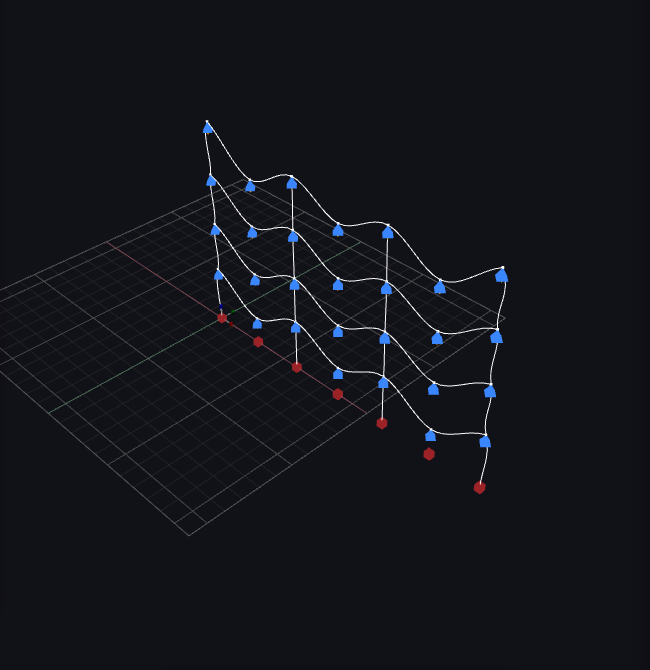
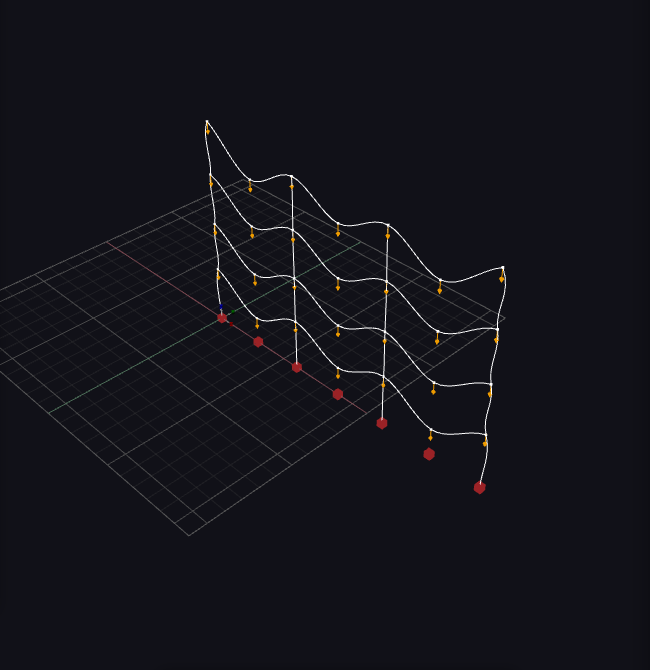
Plantillas: el menu lista las 8 (se derivan, no se escriben) y fuera las ataduras de mas
Dos cosas que caz'o Jorge MIRANDO la pantalla, no el compilador.

## 1 · Faltaban dos plantillas en el menu

El menu de "Nuevo modelo" listaba SEIS y el desplegable del ejemplo OCHO: se
anadieron «dual» y «arriostrado» a `params.tipo.options` y la lista del menu se
quedo atras. Dos listas paralelas no dan error, solo dejan de coincidir.

Arreglado de raiz: el menu ya NO escribe la lista, la **deriva** de
`params.tipo.options` de la propia plantilla. Ahora no pueden separarse.

## 2 · El bosque de triangulos azules

Jorge: *"que es ese triangulo morado no entiendo? ya hay nodos blancos que es
eso?"*.

Eran APOYOS. El portico plano llevaba una atadura fuera-de-plano en TODOS los
nudos, puesta «por si acaso» contra una singularidad, y el visor dibuja un
marcador por cada nudo restringido: salia un triangulo en cada junta y el
portico parecia apoyado entero cuando solo lo esta en la base.

Y sobraban. Medido antes de tocar nada:

    CON ataduras:  35/35 nudos con apoyo · flecha 3.2266 mm
    SIN ataduras:   7/35 nudos con apoyo · flecha 3.2266 mm · NaN 0

Flecha IDENTICA y cero NaN: las barras son vigas 3D con rigidez en los seis GDL
y las bases estan empotradas, asi que el portico no se cae fuera de su plano.

La regla, escrita en el codigo: una atadura «por si acaso» no es gratis. Cambia
lo que el usuario ve y, si de verdad hiciera falta, taparia el fallo en vez de
ensenarlo.

Las 8 miniaturas rehechas y MIRADAS. Suite: 223/223.

diff --git a/examples/src/workspace/main.ts b/examples/src/workspace/main.ts
@@ -2477,31 +2477,28 @@ function showMenu() {
   //
   // Asi que aqui igual: las plantillas primero, como SUB-CATEGORIAS, y el
   // lienzo en blanco como una mas de ellas para quien de verdad quiera dibujar.
-  const PLANTILLAS: Array<[string, number | null]> = [
-    ["▦ Portico plano (2D)", 0],
-    ["🏗 Portico 3D", 1],
-    ["🧱 Portico + losa (aporte de losa)", 2],
-    ["⬚ Solo rejilla (nudos + columnas)", 3],
-    ["▭ Losa plana sobre columnas", 4],
-    ["▣ Losa con vigas de borde", 5],
-    ["📄 Lienzo en blanco (dibujar a mano)", null],
-  ];
+  // ⚠ La lista NO se escribe aquí. Se saca de las opciones de la propia
+  // plantilla (`params.tipo.options`), porque tenerla dos veces es tenerla mal:
+  // se añadieron «dual» y «arriostrado» al desplegable del ejemplo y el menú
+  // siguió enseñando seis. Lo cazó una captura, no el compilador — dos listas
+  // paralelas no dan error, solo dejan de coincidir.
+  const exPlantilla = examplesRegistry.find((e) => e.id === "plantillas");
+  const opciones: Record<string, number> =
+    ((exPlantilla?.params as any)?.tipo?.options) ?? {};
   const fNuevo = pane.addFolder({ title: "📐 Nuevo modelo · Plantillas", expanded: true });
-  for (const [titulo, tipo] of PLANTILLAS) {
+  for (const [titulo, tipo] of Object.entries(opciones)) {
     fNuevo.addButton({ title: titulo }).on("click", () => {
-      if (tipo === null) {
-        const ex = examplesRegistry.find((e) => e.id === "new-blank");
-        if (ex) loadExample(ex);
-        return;
-      }
-      const ex = examplesRegistry.find((e) => e.id === "plantillas");
-      if (!ex) return;
-      // El tipo elegido viaja como defecto para que la plantilla arranque ya
-      // en esa tipologia; el usuario la sigue pudiendo cambiar desde el panel.
-      (ex.params as any).tipo.default = tipo;
-      loadExample(ex);
+      if (!exPlantilla) return;
+      // El tipo elegido viaja como defecto para que la plantilla arranque ya en
+      // esa tipología; el usuario la sigue pudiendo cambiar desde el panel.
+      (exPlantilla.params as any).tipo.default = tipo;
+      loadExample(exPlantilla);
     });
   }
+  fNuevo.addButton({ title: "📄 Lienzo en blanco (dibujar a mano)" }).on("click", () => {
+    const ex = examplesRegistry.find((e) => e.id === "new-blank");
+    if (ex) loadExample(ex);
+  });
   fMenu.addButton({ title: "📂 Archivo existente" }).on("click", () => {
     const ex = examplesRegistry.find((e) => e.id === "csi-importer");
     if (ex) loadExample(ex);

diff --git a/examples/src/plantillas/plantillas.ts b/examples/src/plantillas/plantillas.ts
@@ -360,11 +360,21 @@ export const plantillas: ExampleDef = {
     nodes.forEach((pt, i) => {
       if (Math.abs(pt[2]) < 1e-9) supports.set(i, [true, true, true, true, true, true]);
     });
-    // El pórtico plano vive en el plano X-Z: sin atar el fuera-de-plano el
-    // sistema es singular, y el fallo saldría como NaN y no como aviso.
-    if (tipo === T_PORTICO_2D)
-      for (let n = 0; n < nodes.length; n++)
-        if (!supports.has(n)) supports.set(n, [false, true, false, true, false, true]);
+    // ⚠ Aquí el pórtico plano llevaba una atadura fuera-de-plano en TODOS los
+    // nudos, puesta «por si acaso» contra una singularidad. Sobraba y encima
+    // engañaba: el visor dibuja un marcador de apoyo por cada nudo restringido,
+    // así que el pórtico salía con un triángulo azul en cada junta y parecía
+    // apoyado entero. Lo cazó Jorge mirando la pantalla — *«¿qué es ese
+    // triángulo? ya hay nodos blancos, ¿qué es eso?»*.
+    //
+    // No hacía falta: las barras son vigas 3D con rigidez en los seis GDL y las
+    // bases están empotradas, así que el pórtico no se cae fuera de su plano.
+    // Medido: 35/35 nudos con apoyo -> 7/35, y la flecha sale IDÉNTICA
+    // (3.2266 mm) sin un solo NaN.
+    //
+    // La regla: una atadura «por si acaso» no es gratis. Cambia lo que el
+    // usuario ve y, si de verdad hiciera falta, taparía el fallo en vez de
+    // enseñarlo.
 
     // ── Cargas: la de piso, repartida donde toque ───────────────────────────
     const loads = new Map<number, [number, number, number, number, number, number]>();
